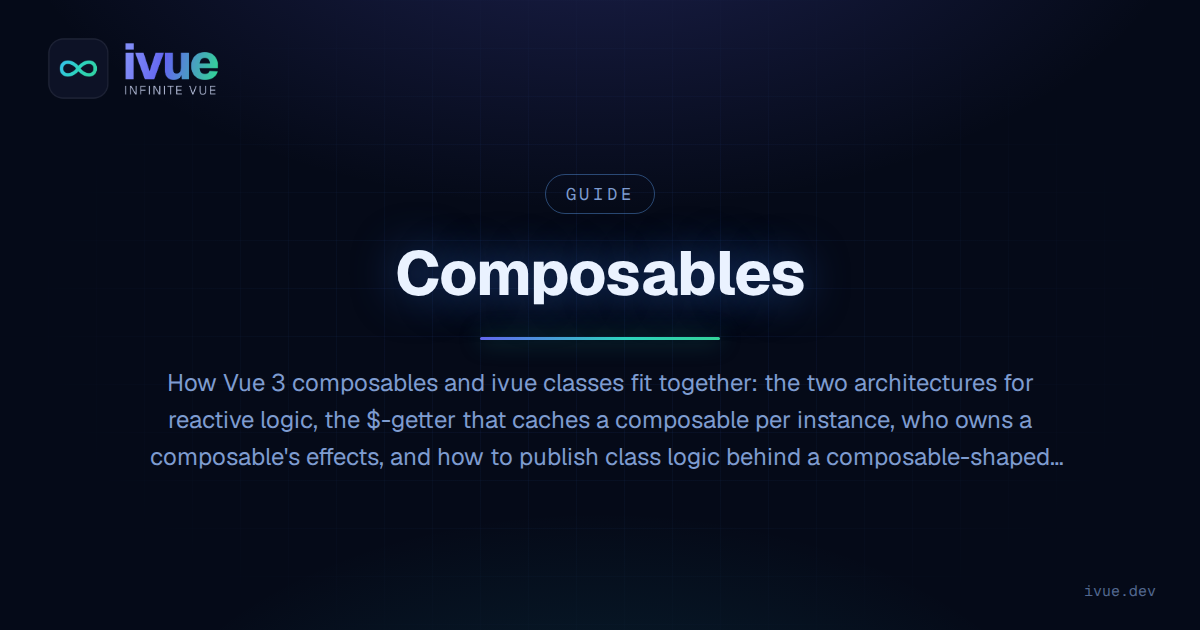
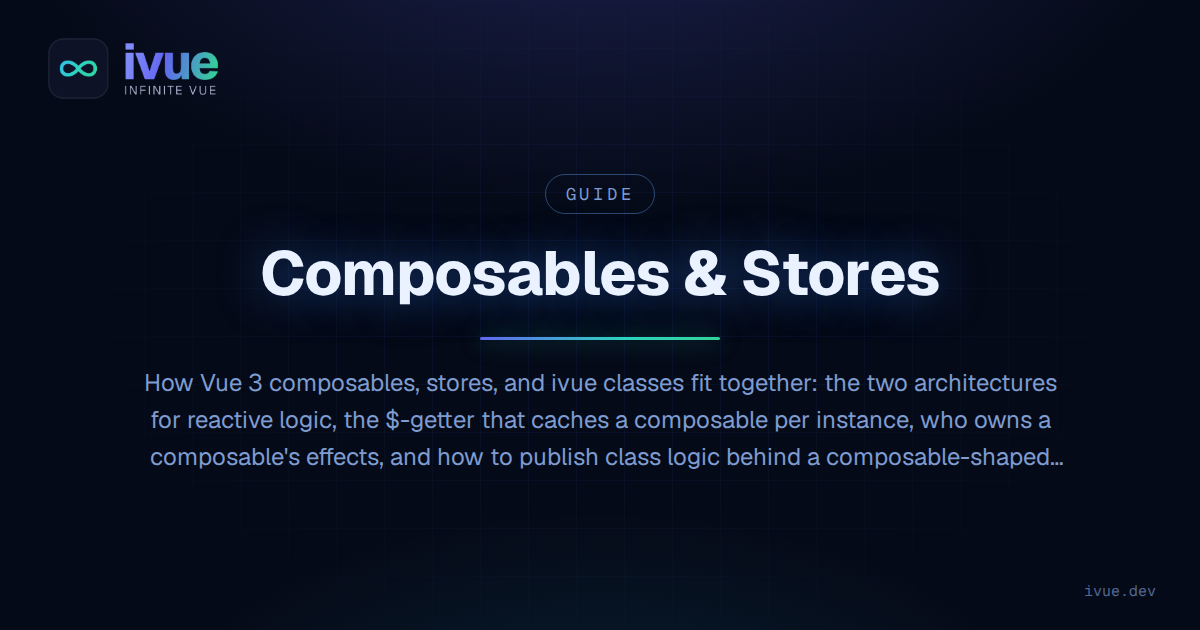
guide: Composables & Stores — title matches the sidebar family

Changed region(s): [[0.1233, 0.573, 0.8942, 0.6937], [0.2158, 0.3921, 0.8017, 0.4825]]

diff --git a/docs_v2/.vitepress/config.ts b/docs_v2/.vitepress/config.ts
@@ -798,7 +798,7 @@ export default defineConfig({
           items: [
             { text: 'Reactive State', link: '/guide/state' },
             { text: 'Computed & Watch', link: '/guide/computed-watch' },
-            { text: 'Composables', link: '/guide/composables' },
+            { text: 'Composables & Stores', link: '/guide/composables' },
             { text: 'Components & Templates', link: '/guide/components' },
             { text: 'Lifecycle & Teardown', link: '/guide/lifecycle-teardown' },
             { text: 'Modules & Imports', link: '/guide/modules' },

diff --git a/docs_v2/guide/composables.md b/docs_v2/guide/composables.md
@@ -1,10 +1,10 @@
 ---
-title: Composables
-description: "How Vue 3 composables and ivue classes fit together: the two architectures for reactive logic, the $-getter that caches a composable per instance, who owns a composable's effects, and how to publish class logic behind a composable-shaped API."
+title: Composables & Stores
+description: "How Vue 3 composables, stores, and ivue classes fit together: the two architectures for reactive logic, the $-getter that caches a composable per instance, who owns a composable's effects, and how to publish class logic behind a composable-shaped API."
 relatedPosts: [computed-is-a-cache, derivations-are-free, total-memory-control, the-object-graph-they-took]
 ---
 
-# Composables
+# Composables & Stores
 
 A **composable** is Vue's unit of reusable reactive logic: a function —
 `useMouse()`, `useLocalStorage()`, `useProjectStore()` — that creates refs,

diff --git a/docs_v2/guide/introduction.md b/docs_v2/guide/introduction.md
@@ -112,7 +112,7 @@ object for the instance's life. Every later read is a cache hit.
 composable materializes inside the component's scope — Vue owns its lifetime
 and removes `useMouse`'s listeners on unmount. The full architecture — both
 directions, including who owns a composable's effects — lives in
-[Composables](/guide/composables).
+[Composables & Stores](/guide/composables).
 
 ## Where ivue fits
 
